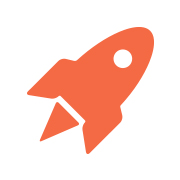
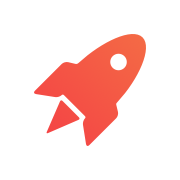
website | Rebranding

Changed region(s): [[0.1389, 0.1389, 0.8611, 0.8611], [0.6111, 0.25, 0.75, 0.4167]]

diff --git a/index.html b/index.html
@@ -4,9 +4,11 @@ title: "Worry-free deploying to GitHub Pages using Jekyll"
 description: "Kickster provides a basic Jekyll project setup packed with web best practises and useful optimization tools increasing your overall project quality. Kickster ships with automated and worry-free deployment scripts for GitHub Pages."
 ---
 
+<div class="header-border"></div>
+
 <header>
   <a href="{{ site.baseurl }}" title="Kickster" class="header-logo">
-    <img src="{% asset_path logo-white.png %}" alt="Kickster">
+    <img src="{% asset_path logo.svg %}" alt="Kickster">
   </a>
   <br>
   <h4>Worry-free deploying to GitHub Pages using Jekyll</h4>
@@ -14,8 +16,8 @@ description: "Kickster provides a basic Jekyll project setup packed with web bes
     Kickster provides a basic Jekyll project setup packed with web best practises and useful optimization tools increasing your overall project quality. Kickster ships with automated and worry-free deployment scripts for GitHub Pages.
   </p>
   <div class="header-actions">
-    <a href="https://github.com/nielsenramon/kickster/blob/master/README.md" class="button button-default" target="_blank" title="Documentation" onMouseDown="ga('send', 'event', 'download', 'click', 'zip')">Docs</a>
-    <a href="https://github.com/nielsenramon/kickster" class="button button-default" target="_blank" title="View on GitHub" onMouseDown="ga('send', 'event', 'download', 'click', 'zip')">GitHub</a>
+    <a href="https://github.com/nielsenramon/kickster/blob/master/README.md" class="button button-primary" target="_blank" title="Documentation" onMouseDown="ga('send', 'event', 'download', 'click', 'zip')">Docs</a>
+    <a href="https://github.com/nielsenramon/kickster" class="button button-primary" target="_blank" title="View on GitHub" onMouseDown="ga('send', 'event', 'download', 'click', 'zip')">GitHub</a>
   </div>
 </header>
 
@@ -108,7 +110,7 @@ description: "Kickster provides a basic Jekyll project setup packed with web bes
           <a href="https://rubygems.org/gems/kickster" title="Rubygems page" target="_blank" class="button button-primary" onMouseDown="ga('send', 'event', 'download', 'click', 'zip')">
             Install Kickster
           </a>
-          <span>v1.5.0</span>
+          <span>v2.0.0</span>
         </div>
       </div>
     </div>

diff --git a/_assets/stylesheets/modules/_header.scss b/_assets/stylesheets/modules/_header.scss
@@ -2,24 +2,30 @@
 // Header
 // =============================================================================
 
+.header-border {
+  display: block;
+  width: 100%;
+  height: 8px;
+  background: linear-gradient(to top right, $brand-primary 0%, $brand-secondary 100%);
+}
+
 // Header of the page with a background image.
 
 header {
   display: block;
   padding: 125px 15px;
   text-align: center;
-  background: url(asset_path("header.jpg")) no-repeat center center;
-  background-size: cover;
+  border-bottom: 1px solid $base-border-color;
   h4 {
     display: inline-block;
-    color: $white;
+    color: $gray-darkest;
   }
   p {
     display: block;
     width: 100%;
     max-width: 620px;
     margin: 10px auto 50px;
-    color: rgba($white, .9);
+    color: $gray-dark;
   }
 }
 

diff --git a/_assets/stylesheets/modules/_sections.scss b/_assets/stylesheets/modules/_sections.scss
@@ -6,7 +6,7 @@
 
 section {
   display: block;
-  padding: 75px 0;
+  padding: 125px 0;
   border-bottom: 1px solid $base-border-color;
 }
 
@@ -28,11 +28,12 @@ section {
 
 .section-image {
   display: block;
+  padding: 0 50px 50px;
   text-align: center;
   img {
     display: inline-block;
-    width: 500px;
-    margin-bottom: 50px;
+    width: 100%;
+    max-width: 850px;
   }
 }
 
@@ -85,7 +86,7 @@ section {
       margin-bottom: 0;
     }
   }
-  .section-image img {
-    width: 400px;
+  .section-image {
+    padding: 0 0 50px;
   }
 }

diff --git a/_assets/stylesheets/_variables.scss b/_assets/stylesheets/_variables.scss
@@ -32,7 +32,8 @@ $white: #fff;
 $brand-info: #0477bf;
 $brand-success: #2a7870;
 $brand-danger: #d94343;
-$brand-primary: #f46b45;
+$brand-primary: #f44545;
+$brand-secondary: #f46b45;
 $brand-warning: #f2bb16;
 
 // Font color

diff --git a/_assets/stylesheets/_base.scss b/_assets/stylesheets/_base.scss
@@ -69,7 +69,7 @@ h3 {
 h4 {
   font-family: $sans-serif-text;
   font-size: $base-font-size * 1.6;
-  font-weight: 300;
+  font-weight: 400;
 }
 
 h5 {
